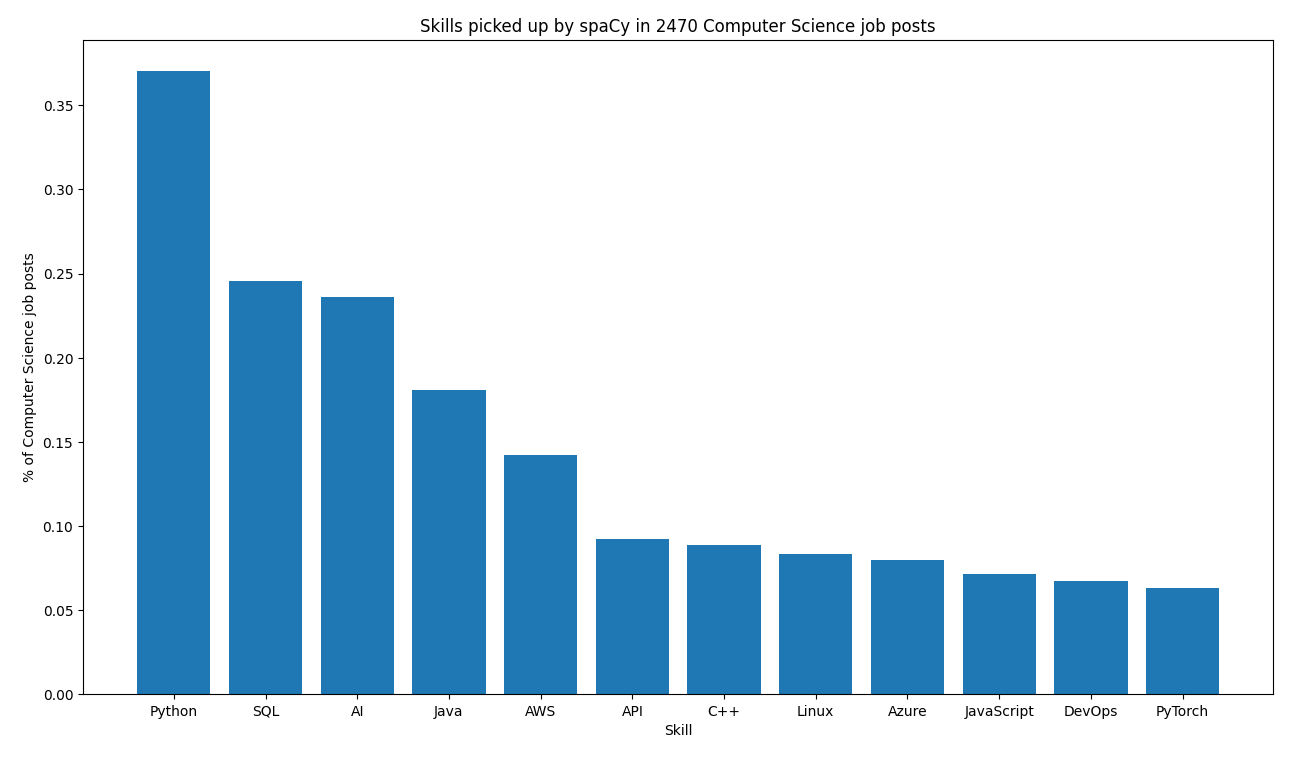
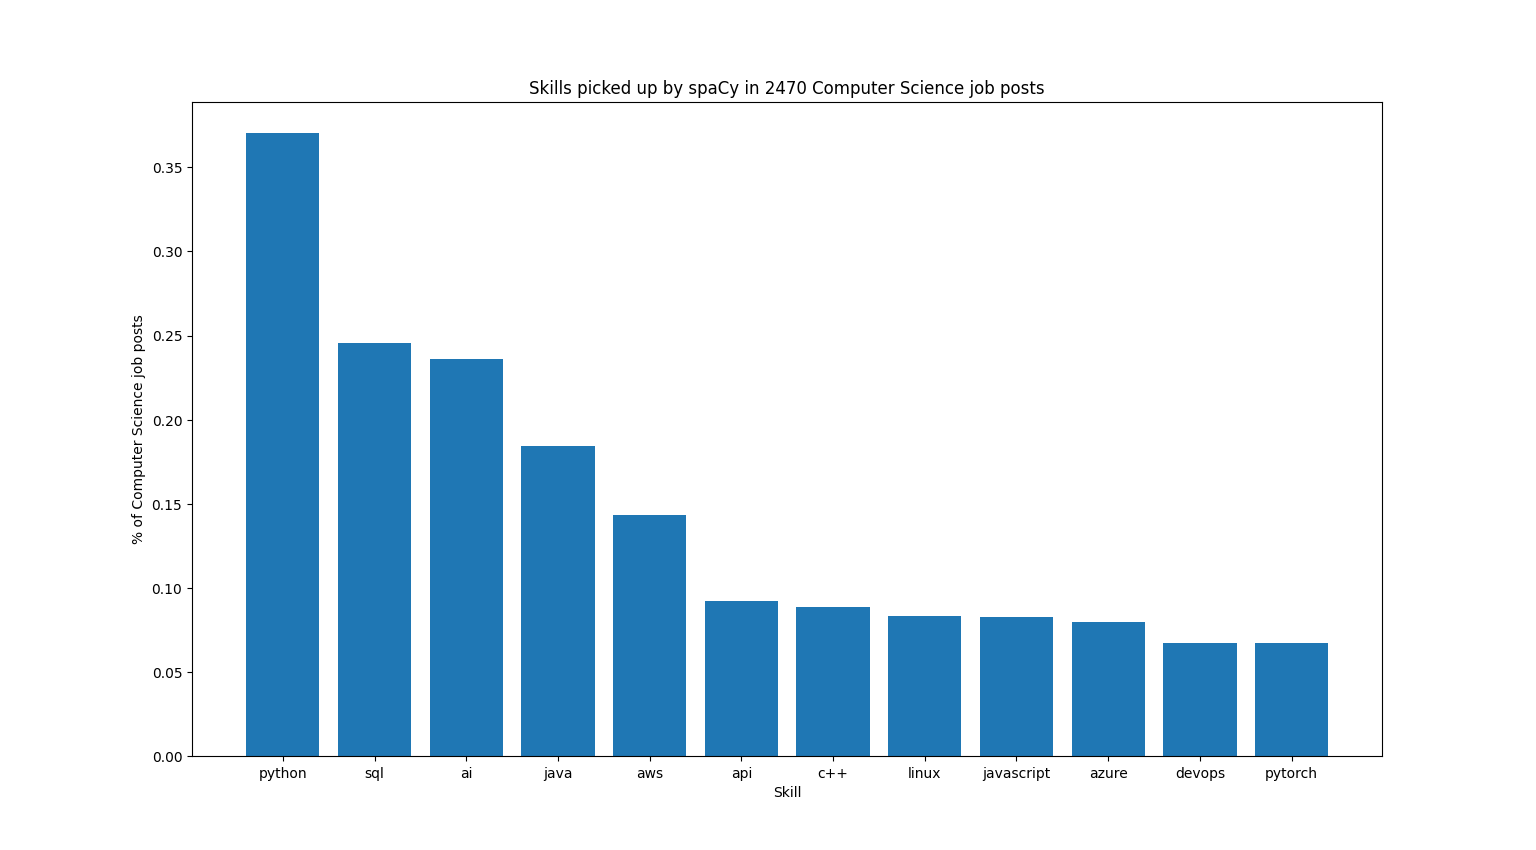
Turned all skill names to lowercase to avoid double counting due to inconsistent capitalization in job posts

diff --git a/skill_stat_plotter.py b/skill_stat_plotter.py
@@ -9,9 +9,9 @@ def load_json(filename):
     with open(filename, "r", encoding="utf-8") as f:
         return json.load(f)
 
-SKILLS = ["Python", "SQL", "AI", "Java", "AWS", "API", "C++", "Linux", "Azure",
-          "JavaScript", "DevOps", "PyTorch", "Docker", "GCP", "UI", "CI", "TensorFlow",
-          "ETL", "Excel", "Tableau"]
+SKILLS = ["python", "sql", "ai", "java", "aws", "api", "c++", "linux", "javascript",
+          "azure", "devops", "pytorch", "docker", "gcp", "ui", "tensorflow", "ci",
+          "etl", "excel", "tableau"]
 
 divisor = len(load_json("scraper/job_descriptions.json"))
 counters = dict(load_json("ent_counter.json"))

diff --git a/ent_counter.py b/ent_counter.py
@@ -7,9 +7,13 @@ from operator import attrgetter
 import spacy
 from spacy.tokens import DocBin
 
+def text_lower(e):
+    """Returns the lowercase of the given entity's text"""
+    return e.text.lower()
+
 def ent_texts(d):
     """Returns a set containing the text of entities in d"""
-    return set(map(attrgetter("text"), d.ents))
+    return set(map(text_lower, d.ents))
 
 nlp = spacy.load("en_core_web_lg")
 doc_bin = DocBin().from_disk("ent_filter_.spacy")
